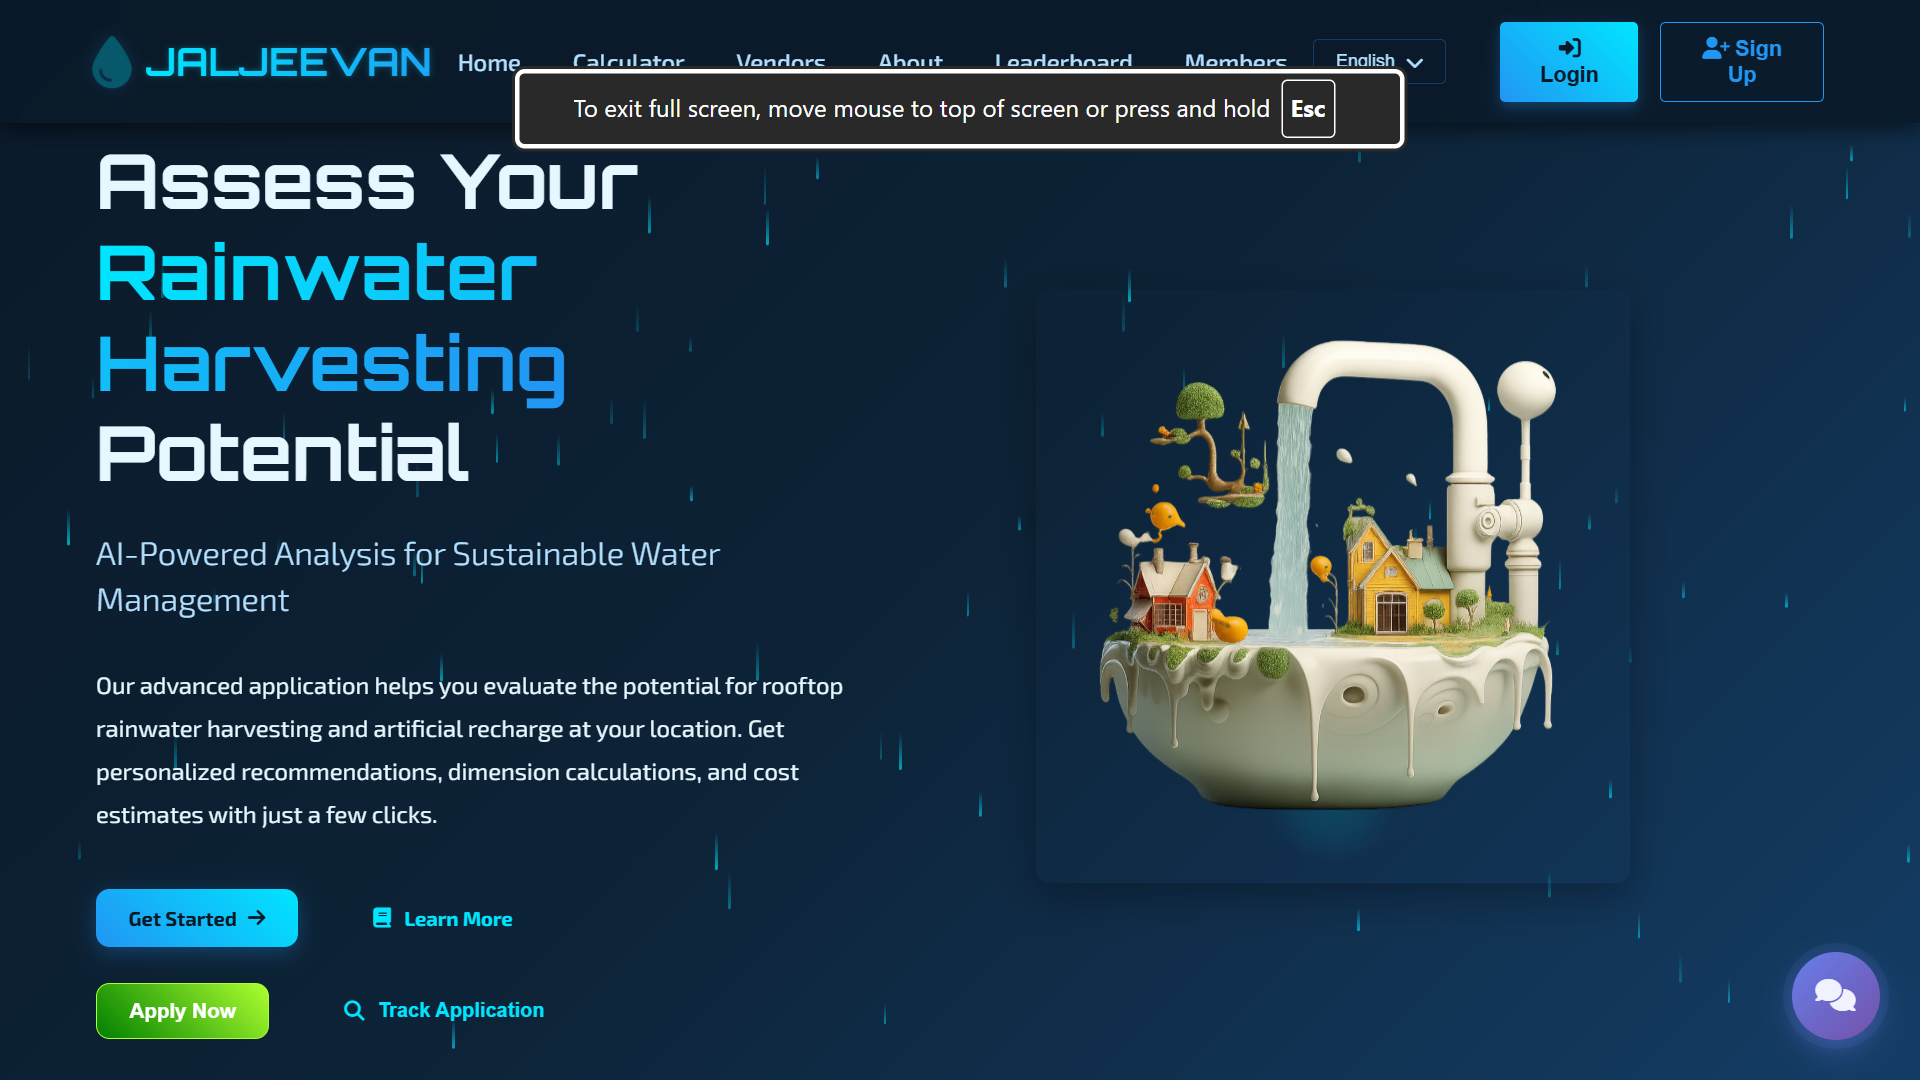
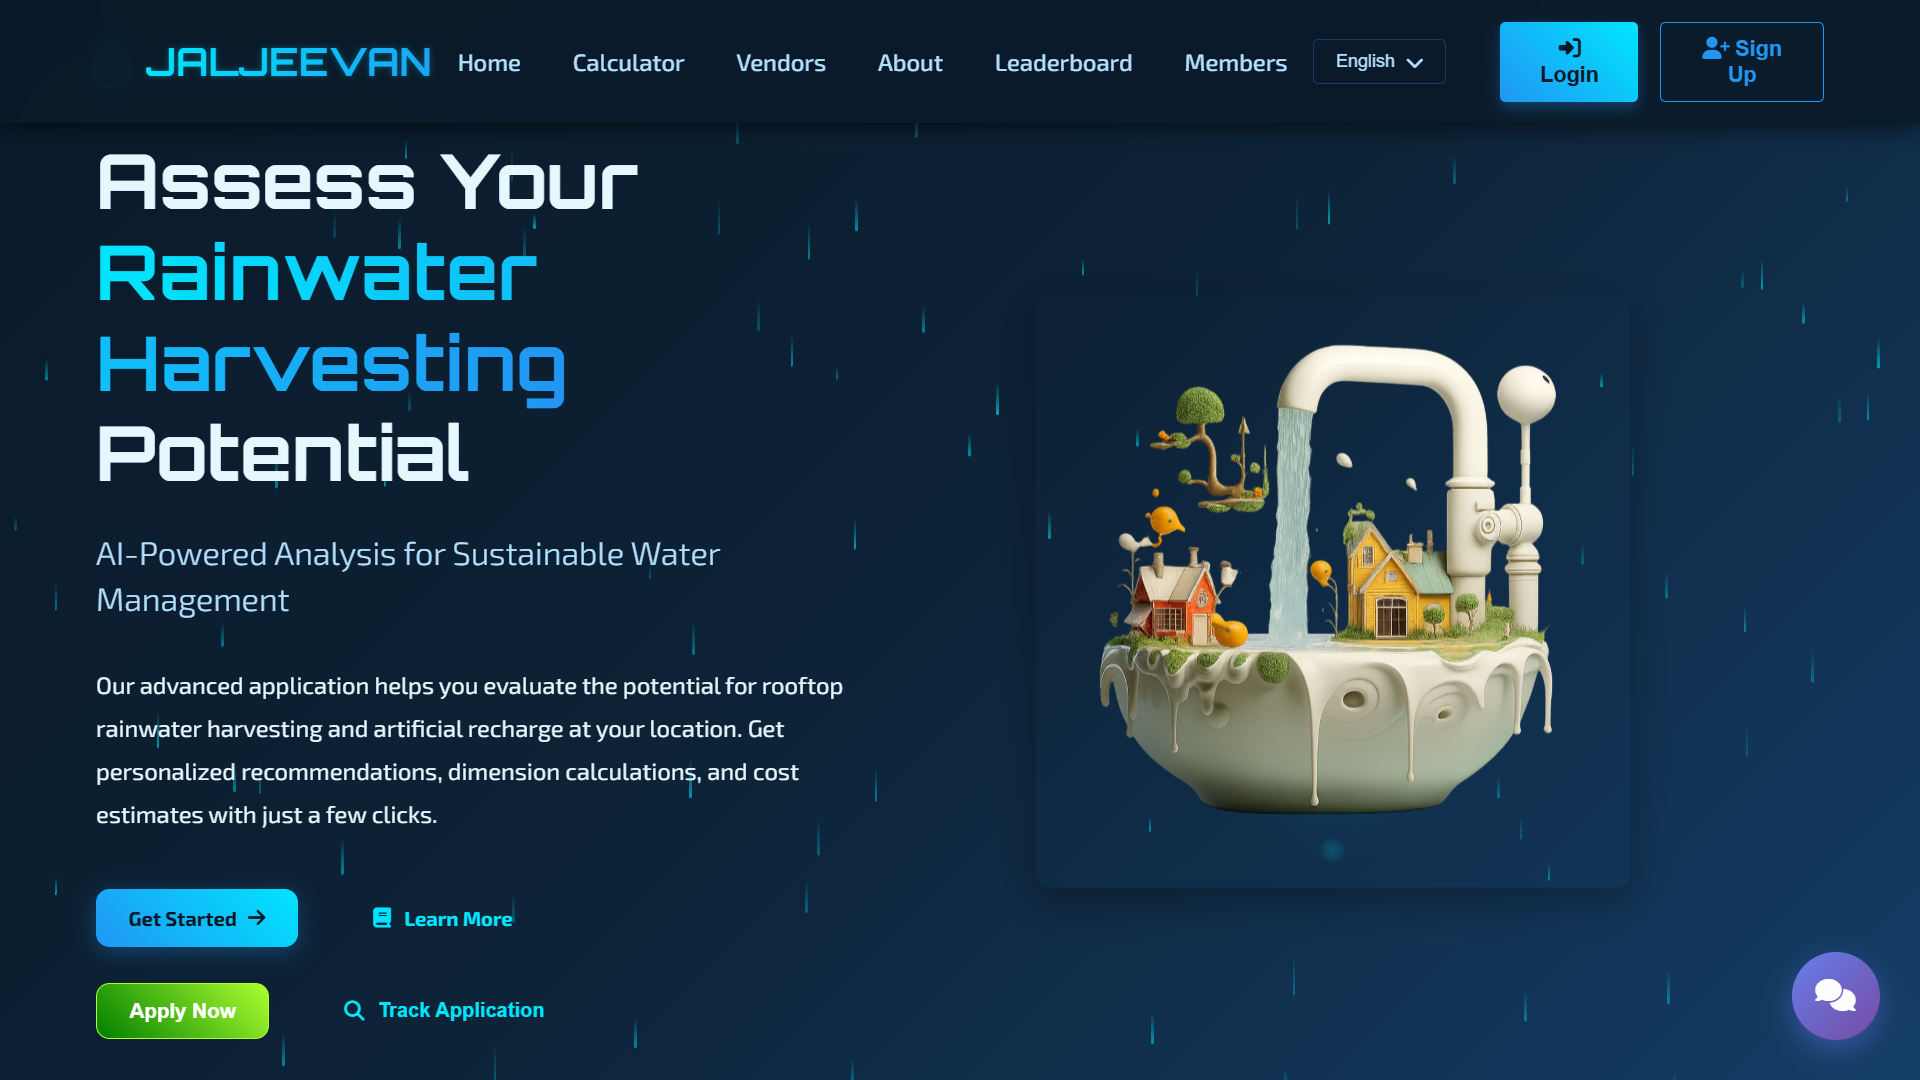
Update images in README for improved visual representation

diff --git a/README.md b/README.md
@@ -41,12 +41,12 @@ The image below is an **actual visual asset used by the current home page**.
 
 <p align="center">
   <img src="static\assets\Home.png" width="48%">
-  <img src="static\assets\Home.png" width="48%">
+  <img src="static\assets\Login.png" width="48%">
 </p>
 
 <p align="center">
-  <img src="static\assets\chatbot.png" width="48%">
-  <img src="static\assets\calculator.png" width="48%">
+  <img src="static\assets\ChatBot.png" width="48%">
+  <img src="static\assets\Calculator.png" width="48%">
 </p>
 
 ---
